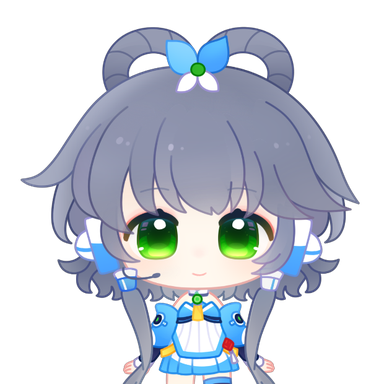
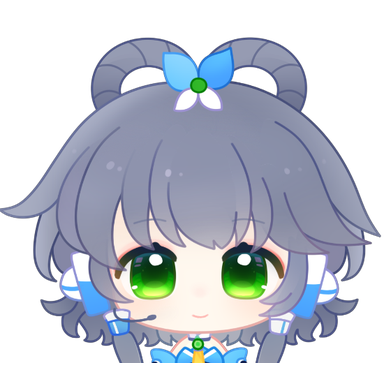
fix(ui): refine QQ login and restore exported settings pages

diff --git a/client-godot/tests/run_feature_tests.py b/client-godot/tests/run_feature_tests.py
@@ -78,6 +78,7 @@ def run(godot,script,gpu=False):
                 if data.get('model')=='error': self.reply(503,{'error':'PRIVATE_PROVIDER_BODY'}); return
                 self.reply(200,{'choices':[{'message':{'content':'bad-json' if data.get('model')=='bad-json' else '{"answer":"ok"}'}}],'usage':{'total_tokens':3,'private':'DO_NOT_RETURN'}}); return
             if self.path=='/auth/login':
+                if data.get('username')=='visual_busy': time.sleep(.4)
                 if data.get('username')=='reject': self.reply(401,{}); return
                 self.reply(200,{'user_id':'ui-uuid','login_token':'login-test','message_token':'message-test'}); return
             if self.path=='/auth/auto_login':

diff --git a/docs/开发进程文档/开发进度/Godot-0.1.3登录与气泡.md b/docs/开发进程文档/开发进度/Godot-0.1.3登录与气泡.md
@@ -65,3 +65,11 @@
 - 原生导出程序实际显示480×690白色圆角登录窗口，运行标题agentluo 0.1.3；持续运行30秒后验证菜单截图、顶栏拖动(36,24)、边缘不可缩放、关闭按钮退出整个进程；native-export.json为PASS，运行日志无引擎错误，已查看native-export.png。
 - 保留全部既有交付包，未覆盖同名文件。SPEC/Red/Green及发布候选均已作者自审，本轮完成记录仅本地提交；未创建远端PR或推送，不以独立AI核验替代他人正式审核。
 - 本机与离线夹具结果不代表Win10、系统DPI、多屏、集显、手机端、公共服务、长时间运行或签名安装包验收。
+
+### 2026-09-21 QQ参照校准、导出设置空白与偏好重复值修正
+
+- SPEC 3af4a02/a76b3c7；Red 6b567cf/0515552实际加载旧0.1.3 PCK，复现两个隐藏页导出后锚点变为0、模型页0×0/缓存页312×48，以及退出按钮与侧栏宽度不一致。登录主题断言在场景入树后执行，旧PCK仍实际因方形图标、字号与禁用色失败，排除了未入树时主题继承造成的假象。35306ed复现关系/表达风格当前值重复呈现。
+- 设置场景对三页显式声明铺满锚点，退出登录宽150px与侧栏对齐。新导出PCK通过默认880×760及最小720×640的所有页尺寸/标题可见性断言；实际release EXE以隔离APPDATA连接本地fixture，使用原生鼠标逐页点击并捕获相处/模型/语音缓存，均可见，退出进程正常。证据在artifacts/qq-ui-review/native-settings.*及对应PNG，已亲自查看。
+- 登录页按参考校准120px头像、账号/密码起点226/304px、圆形24px选项图标、18px灰色选项文字、24px黑色输入及白色登录文字、20px底部链接。纯白背景不变，头像改头部取景。请求期间账号/密码/勾选与链接外观保持，登录按钮变浅蓝，操作仍禁用；真实延迟fixture的login-ready/login-busy截图与账户回归通过。SVG仅作为Godot控件主题图标，不创建UI节点或采样桌面。
+- 关系/表达风格当前值只显示在输入框，40px箭头打开原预设列表；show_selected_label默认true保持其他下拉行为，菜单选中ID与键盘逻辑不变。GPU设置六态/加载失败/保存/四档内容缩放、退出确认、下拉稳定ID及功能组回归通过。基础、账户、网络组通过，新增偏好修复另跑受影响下拉/设置回归；未改服务端。
+- Green为本记录提交。作者自审覆盖场景资源、主题继承、导出序列化、仅登录主题变体的禁用状态、原头像许可及新增测试入口。测试总数59，导出布局为显式GPU入口；未将release模板忽略--script的运行算作测试通过。旧交付ZIP保持原哈希，未纳入热重载DLL变化。

diff --git a/client-godot/tests/README.md b/client-godot/tests/README.md
@@ -1,6 +1,6 @@
 # Godot 测试入口
 
-当前有58个`test_*.gd`：55个由四组headless检查编排，3个仅用于图形/原生窗口验收。另有4个`capture_*.gd`视觉入口。目录表示模块职责，GPU能力由运行方式区分；未列入默认组不代表过时。
+当前有59个`test_*.gd`：55个由四组headless检查编排，4个仅用于图形/原生窗口验收。另有4个`capture_*.gd`视觉入口。目录表示模块职责，GPU能力由运行方式区分；未列入默认组不代表过时。
 
 完整契约及旧脚本迁移对照见[测试契约](../../docs/项目说明/项目架构与接口（spec）/接口文档/client_godot/testing.md)，完成事实见[进度](../../docs/开发进程文档/开发进度/Godot测试精简与解耦.md)。历史文档中的旧文件名不再作为当前运行入口。
 
@@ -42,6 +42,7 @@ $python = '<已安装测试依赖的python.exe>'
 | 脚本（相对tests） | 启动方式 | 验证内容 |
 | --- | --- | --- |
 | ui/test_settings_control_states.gd | run_feature_tests.py --gpu | 延迟/失败读取、重试、保存、六态开关、默认/最小及100/125/150/200%缩放；包含原最小布局Reload滚动验收 |
+| ui/test_settings_export_layout.gd | 源码直接GPU运行；或同版本引擎 `--main-pack <导出PCK> --script <本脚本绝对路径>`（验证目录放置导出的DLL） | 默认/最小尺寸、隐藏页面切换后的真实尺寸及标题可见性、退出登录与侧栏对齐；release EXE不执行外部script，另用原生输入实测 |
 | ui/test_login_presentation.gd | run_feature_tests.py --gpu | 纯白透明圆角、菜单、服务器取消、账号历史、记住状态、四档缩放与小屏 |
 | ui/test_bubble_sizing.gd、ui/test_image_bubble_sizing.gd | 直接Godot --script，可headless或GPU | 实际排版宽度、90%上限、图片原比例及长图延迟加载锚点 |
 | ui/test_logout_confirmation.gd | run_feature_tests.py --gpu | 鼠标触发、确认来源、取消焦点、实际退出提示、保存失败留稿 |

diff --git a/client-godot/licenses/RESOURCES.md b/client-godot/licenses/RESOURCES.md
@@ -4,7 +4,7 @@
 
 应用图标复用 `client/res/gui/icon.svg` 与 `icon.ico`，对应Godot的`assets/ui/app_icon.svg`和`app_icon.ico`，内容保持逐字节一致。
 
[2 lines of base64/hex data omitted]
 
 模型来源及用途说明见仓库 `client/README.md`「关于 AI 生成内容的声明」第 3 项：火爆鸡王发布的洛天依 Live2D 模型，非商业用途免费使用。背景及 Logo 沿用原项目声明，不因程序使用 MIT 许可证而改变素材的使用条件。
 
